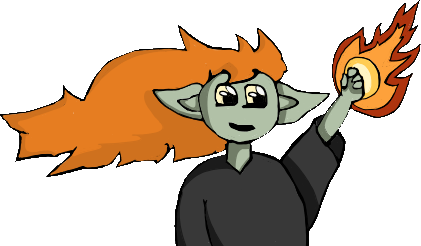
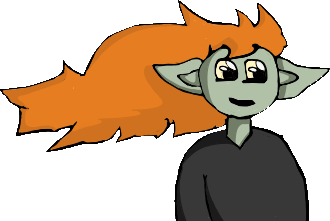
Improved multiplayer card in homepage

diff --git a/frontend/style.css b/frontend/style.css
@@ -255,7 +255,11 @@ body::before {
    subito sopra la descrizione: essendo le descrizioni alte uguali
    (min-height), nei due pannelli le figure partono dalla stessa linea. Nella coppia Reinhold (a cui nel PNG è stato
    tolto il martello, che lo teneva lontano da Araminta) sta a sinistra,
-   davanti: i capelli di Araminta passano dietro di lui. La
+   davanti: i capelli di Araminta passano dietro di lui. Ad Araminta nel PNG
+   è stato tolto il braccio alzato con la fiamma. Ogni illustrazione è
+   centrata sul busto, cioè sul punto medio dei pixel della riga più bassa
+   della figura (per la coppia, della riga più bassa del gruppo): il
+   translateX è quello scarto, in % della larghezza. La
    trasparenza è sul gruppo, non sulle singole immagini: dove le figure si
    sovrappongono quella dietro non traspare attraverso quella davanti. */
 .home-mode-art {
@@ -269,10 +273,10 @@ body::before {
 }
 
 .home-mode-art img { display: block; flex: 0 0 auto; }
-.art-pair { display: flex; align-items: flex-end; }
-.art-patrizio { height: 148px; }
+.art-pair { display: flex; align-items: flex-end; transform: translateX(-5.5%); }
+.art-patrizio { height: 148px; transform: translateX(-10.4%); }
 .art-reinhold { height: 166px; margin-right: -136px; position: relative; z-index: 1; }
-.art-araminta { height: 162px; }
+.art-araminta { height: 146px; }
 
 /* Tutorial e Catalogo Carte: uno sopra l'altro, larghi quanto la riga dei
    due pannelli (2 × 324px + 2rem di spazio), come su mobile. */

diff --git a/frontend/mobile/mobile.css b/frontend/mobile/mobile.css
@@ -406,7 +406,11 @@ input {
    subito sopra la descrizione: essendo le descrizioni alte uguali
    (min-height), nei due pannelli le figure partono dalla stessa linea. Nella coppia Reinhold (a cui nel PNG è stato
    tolto il martello, che lo teneva lontano da Araminta) sta a sinistra,
-   davanti: i capelli di Araminta passano dietro di lui. La
+   davanti: i capelli di Araminta passano dietro di lui. Ad Araminta nel PNG
+   è stato tolto il braccio alzato con la fiamma. Ogni illustrazione è
+   centrata sul busto, cioè sul punto medio dei pixel della riga più bassa
+   della figura (per la coppia, della riga più bassa del gruppo): il
+   translateX è quello scarto, in % della larghezza. La
    trasparenza è sul gruppo, non sulle singole immagini: dove le figure si
    sovrappongono quella dietro non traspare attraverso quella davanti. */
 .home-mode-art {
@@ -420,10 +424,10 @@ input {
 }
 
 .home-mode-art img { display: block; flex: 0 0 auto; }
-.art-pair { display: flex; align-items: flex-end; }
-.art-patrizio { height: 76px; }
+.art-pair { display: flex; align-items: flex-end; transform: translateX(-5.5%); }
+.art-patrizio { height: 76px; transform: translateX(-10.4%); }
 .art-reinhold { height: 85px; margin-right: -69px; position: relative; z-index: 1; }
-.art-araminta { height: 83px; }
+.art-araminta { height: 75px; }
 
 .home-extras {
   display: flex;
